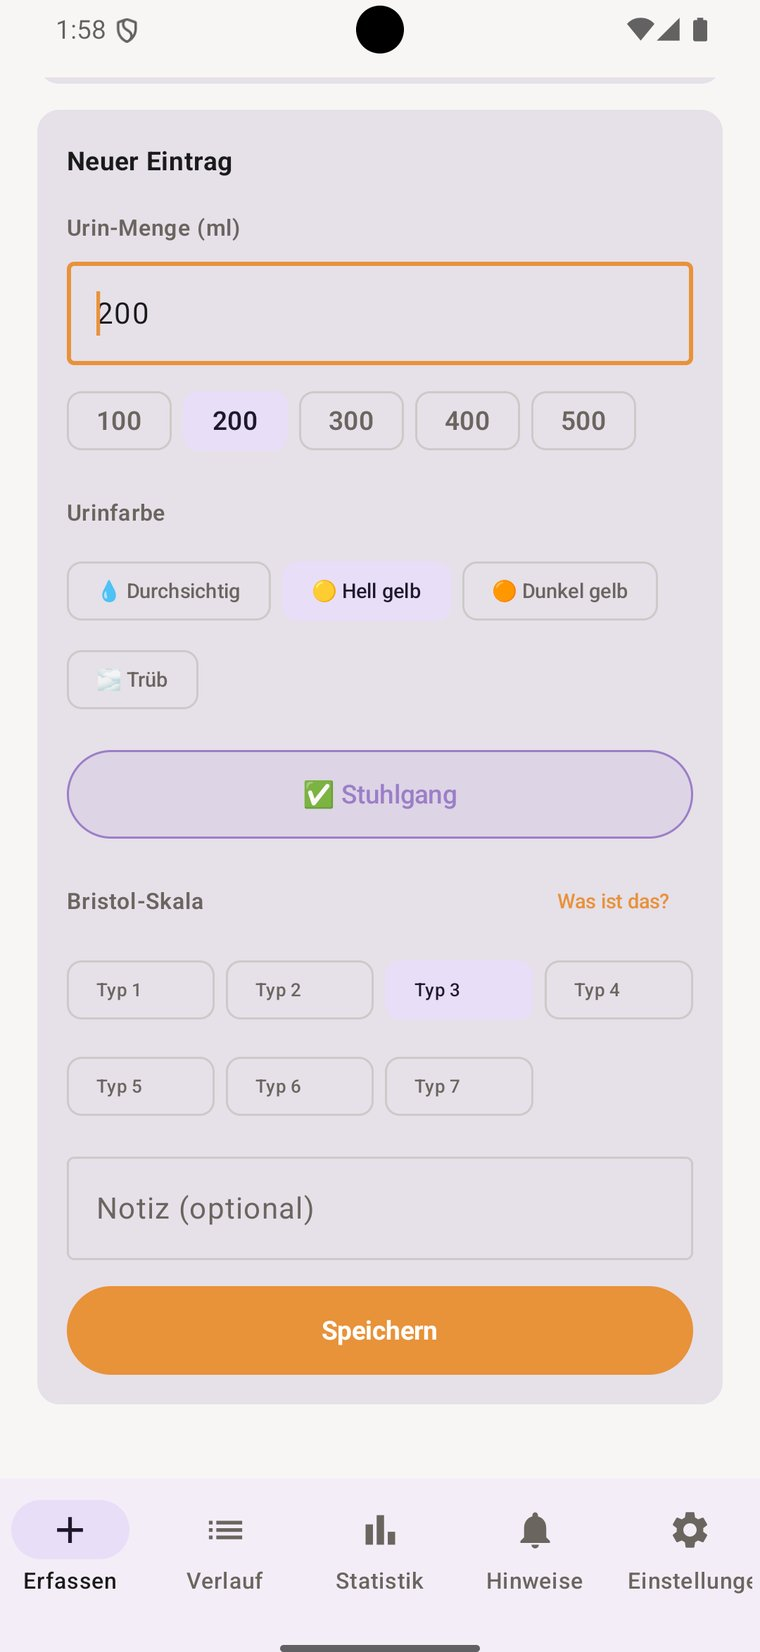
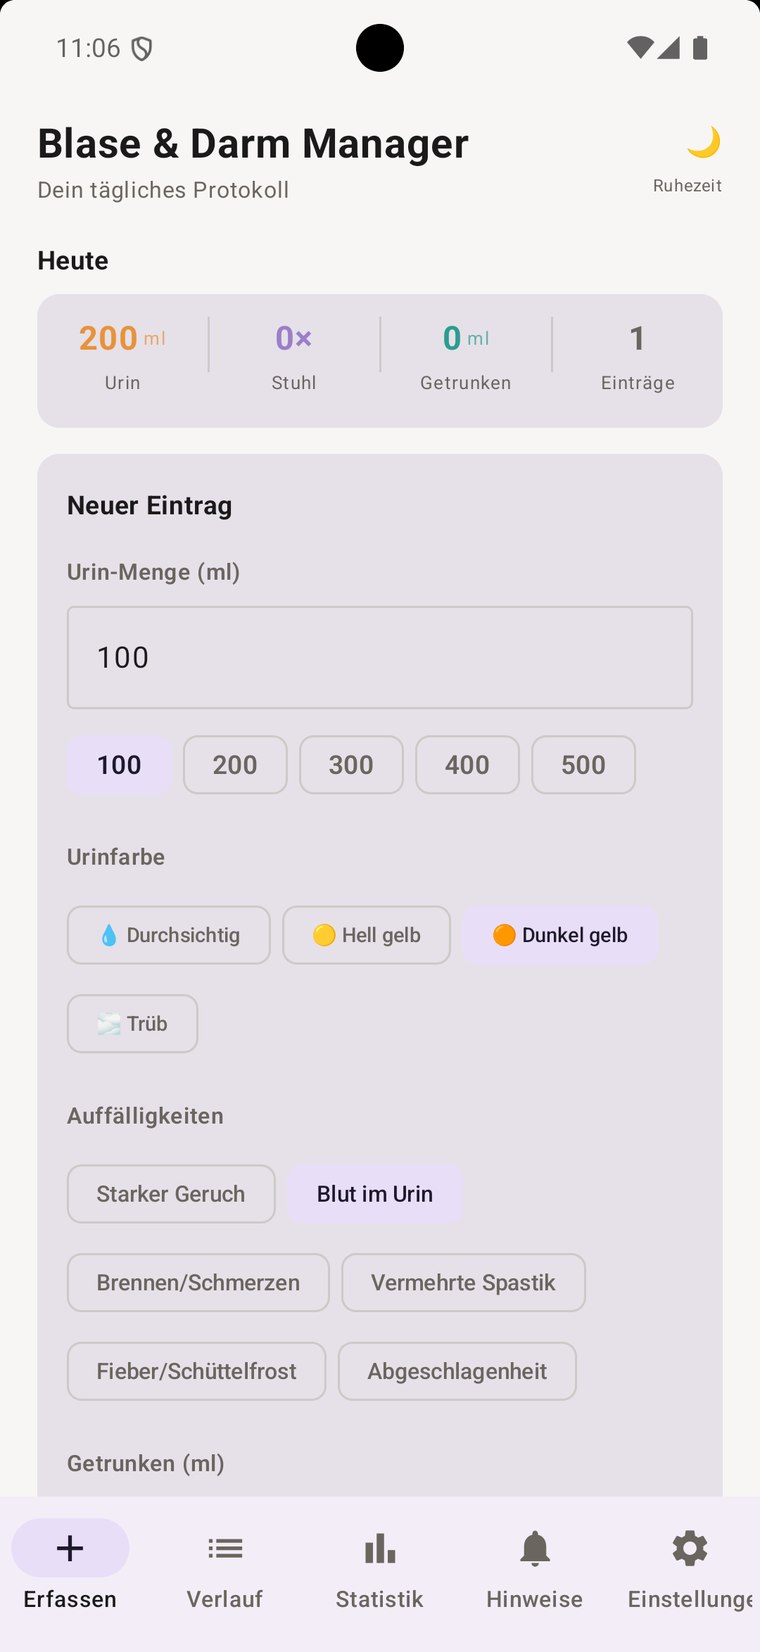
Android 2.0: Screens erneuert (Erfassen mit Auffälligkeiten, Hinweise) + Einstellungen-Bild mit Katheter/HWI (DE+EN)

diff --git a/index.html b/index.html
@@ -333,12 +333,16 @@
     </div>
     <div class="android-shots" style="display:grid;grid-template-columns:repeat(auto-fit,minmax(15rem,1fr));gap:1.25rem;margin-top:2.5rem">
       <figure>
-        <img src="/assets/shot-android-erfassen.jpg" alt="Android-Eingabemaske mit Menge, Urinfarbe und Bristol-Skala" loading="lazy" width="760" height="1652">
-        <figcaption>Erfassen auf Android: Menge, Farbe, Bristol-Typ — optional mit Trinkmenge.</figcaption>
+        <img src="/assets/shot-android-erfassen.jpg" alt="Android-Eingabemaske mit Menge, Urinfarbe, Auffälligkeiten und Trinkmenge" loading="lazy" width="760" height="1652">
+        <figcaption>Erfassen auf Android — jetzt mit Auffälligkeiten für die HWI-Frühwarnung.</figcaption>
       </figure>
       <figure>
         <img src="/assets/shot-android-hinweise.jpg" alt="Der Hinweise-Bereich auf Android mit Tagesstatus und Grenzen" loading="lazy" width="760" height="1652">
         <figcaption>Hinweise mit Tagesstatus — samt automatischem Abend-Check.</figcaption>
+      </figure>
+      <figure>
+        <img src="/assets/shot-android-einstellungen.jpg" alt="Android-Einstellungen mit Katheterbestand-Karte und HWI-Frühwarnung" loading="lazy" width="760" height="1652">
+        <figcaption>Katheterbestand mit Rezept-Erinnerung und HWI-Frühwarnung — seit Version 2.0 auch auf Android.</figcaption>
       </figure>
       <figure>
         <img src="/assets/shot-android-statistik.jpg" alt="Android-Statistik mit Zeiträumen, Tagesübersicht und CSV- und PDF-Export" loading="lazy" width="760" height="1652">

diff --git a/en/index.html b/en/index.html
@@ -331,12 +331,16 @@
     </div>
     <div class="android-shots" style="display:grid;grid-template-columns:repeat(auto-fit,minmax(15rem,1fr));gap:1.25rem;margin-top:2.5rem">
       <figure>
-        <img src="/assets/shot-android-erfassen.jpg" alt="Android entry form with volume, urine colour and Bristol scale" loading="lazy" width="760" height="1652">
-        <figcaption>Logging on Android: volume, colour, Bristol type — fluid intake if you like.</figcaption>
+        <img src="/assets/shot-android-erfassen.jpg" alt="Android entry form with volume, urine colour, signs and fluid intake" loading="lazy" width="760" height="1652">
+        <figcaption>Logging on Android — now with signs for the early UTI alerts.</figcaption>
       </figure>
       <figure>
         <img src="/assets/shot-android-hinweise.jpg" alt="The alerts area on Android with today's status and limits" loading="lazy" width="760" height="1652">
         <figcaption>Alerts with daily status — including an automatic evening check.</figcaption>
+      </figure>
+      <figure>
+        <img src="/assets/shot-android-einstellungen.jpg" alt="Android settings with catheter supply card and early UTI alerts" loading="lazy" width="760" height="1652">
+        <figcaption>Catheter supply with reorder reminders and early UTI alerts — on Android since version 2.0.</figcaption>
       </figure>
       <figure>
         <img src="/assets/shot-android-statistik.jpg" alt="Android statistics with time ranges, daily overview and CSV and PDF export" loading="lazy" width="760" height="1652">
